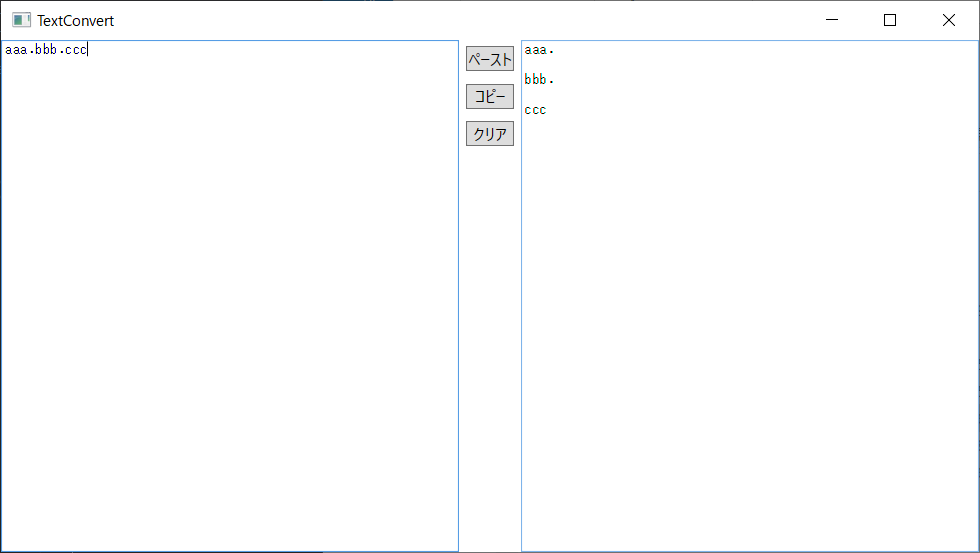
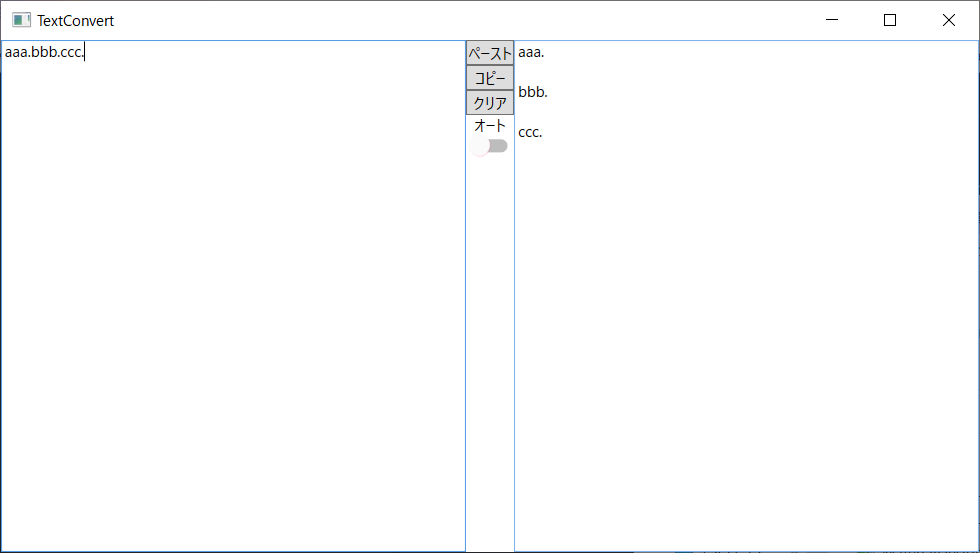
エラーをBeforeTextに表示するように変更。 改行を消す処理をハイフンが末尾にあるならそのまま消去、ないなら消去してスペースを挿入するように変。

Changed region(s): [[0.4592, 0.0615, 0.551, 0.2767], [0.3367, 0.9837, 0.6429, 1.0], [0.0, 0.0615, 0.0918, 0.123]]

diff --git a/ViewModels/MainViewModel.cs b/ViewModels/MainViewModel.cs
@@ -175,15 +175,21 @@ namespace TextConvert.ViewModels
         {
             // クリップボードからオブジェクトを取得
             IDataObject ClipboardData = Clipboard.GetDataObject();
+            string ClipboardDataString;
             // テキストデータかどうか確認
             if (ClipboardData.GetDataPresent(DataFormats.Text))
             {
                 // オブジェクトからテキストを取得
-                BeforeAfterTextModel.BeforeText = (string)ClipboardData.GetData(DataFormats.Text);
+                ClipboardDataString = (string)ClipboardData.GetData(DataFormats.Text);
+                // データが更新されていたらBeforeTextを書き換え
+                if (ClipboardDataString != BeforeAfterTextModel.AfterText)
+                {
+                    BeforeAfterTextModel.BeforeText = ClipboardDataString;
+                }
             }
             else
             {
-                MessageBox.Show("コピーしたデータが文字列ではありません");
+                BeforeAfterTextModel.BeforeText = "コピーしたデータが文字列ではありません";
             }
             return;
         }

diff --git a/Models/TextModel.cs b/Models/TextModel.cs
@@ -52,7 +52,8 @@ namespace TextConvert.Models
             else
             {
                 x = x.Replace("\r", "");
-                x = x.Replace("\n", "");
+                x = x.Replace("-\n", "");
+                x = x.Replace("\n", " ");
                 x = x.Replace(".", ".\n\n");
                 return x;
             }
